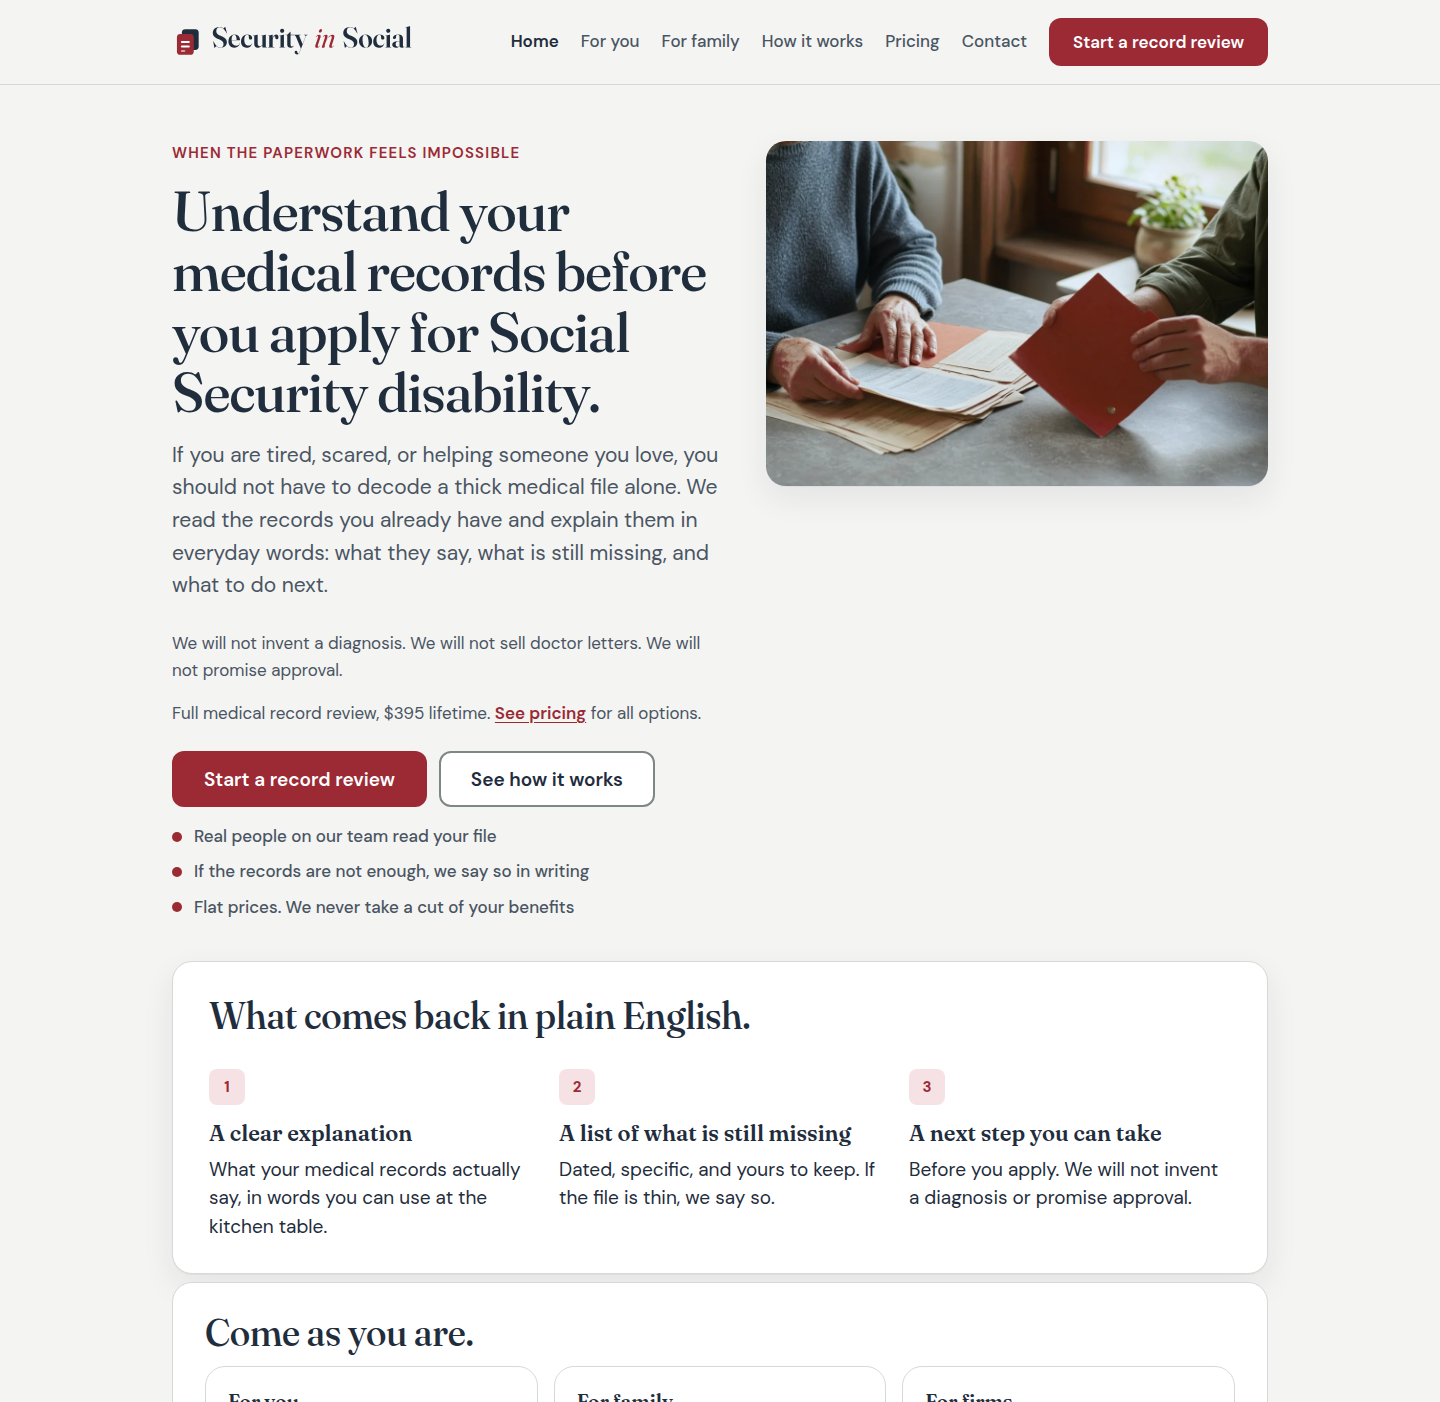
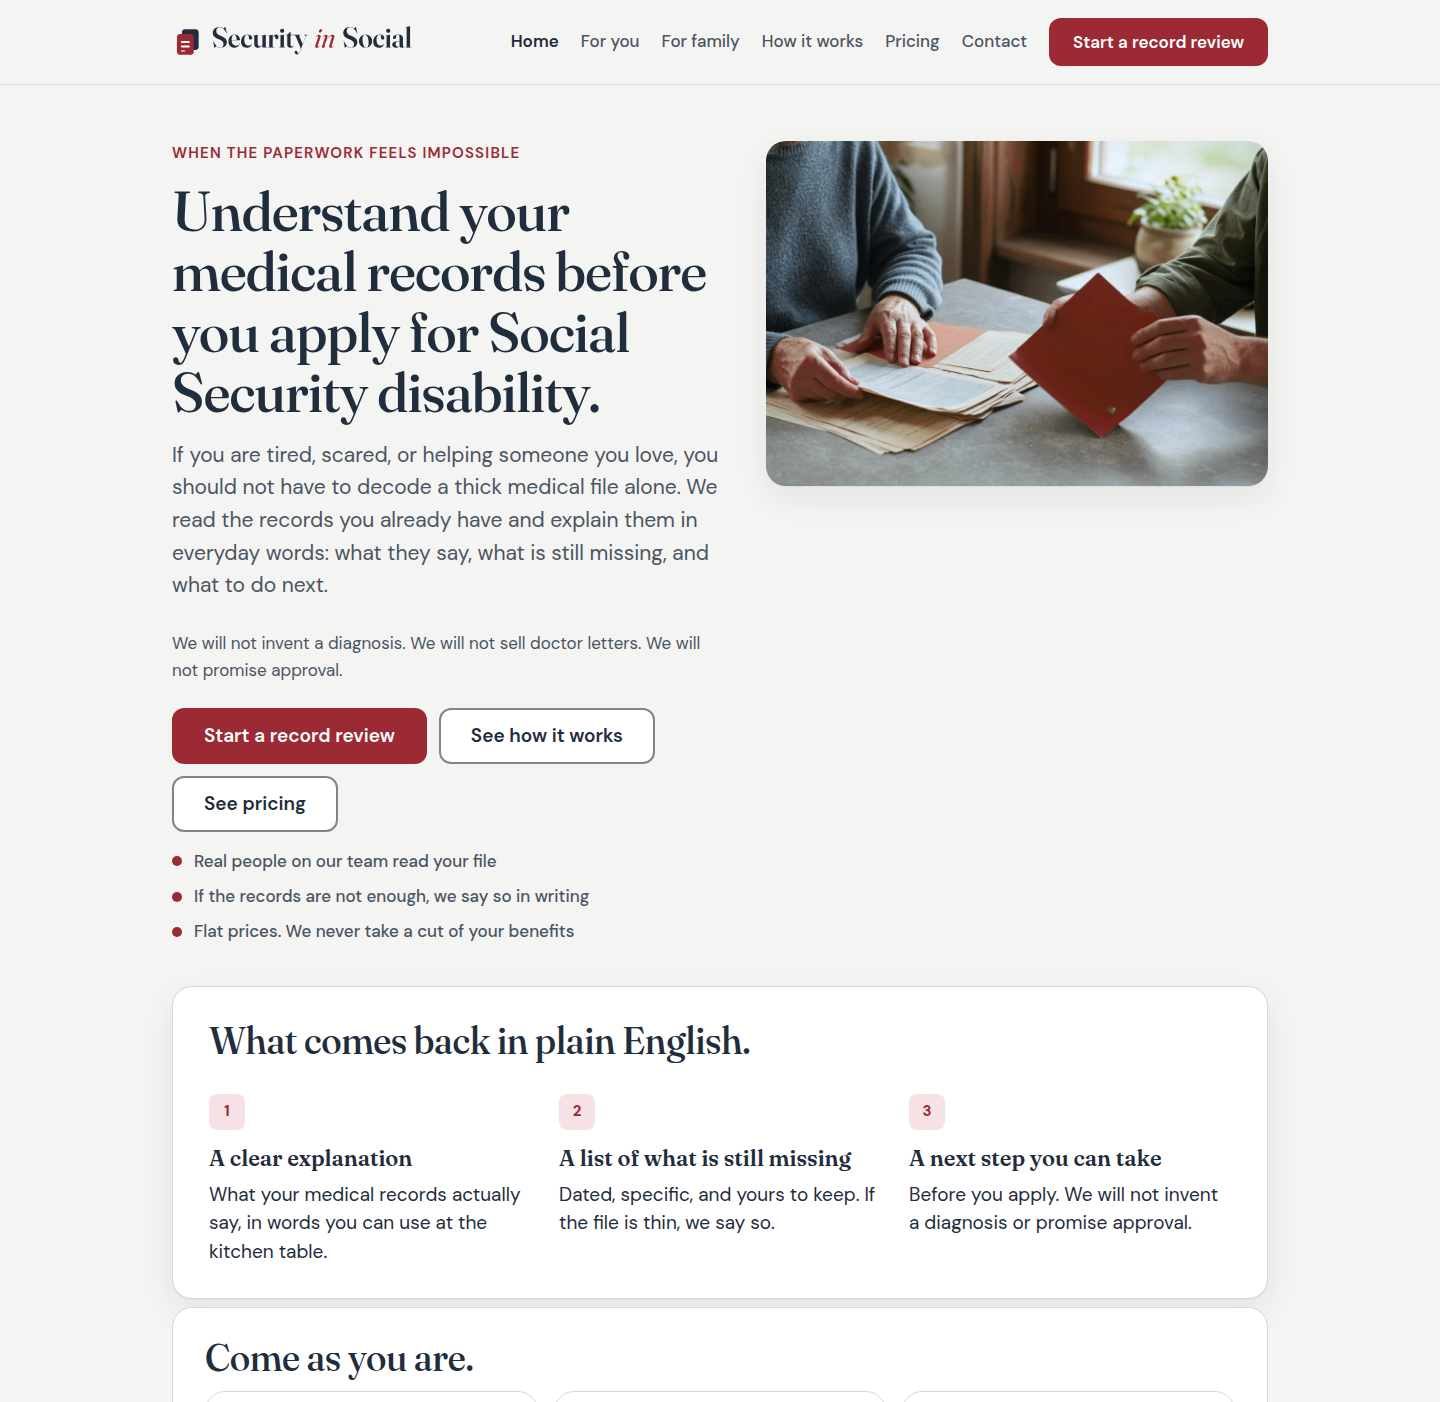
Home: drop dollar amounts. Pricing owns the SKUs.
Remove $395 from Home meta, OG, Twitter, and hero. Keep See pricing as a
ghost CTA and the Flat prices belief line with no figures.

diff --git a/index.html b/index.html
@@ -4,20 +4,20 @@
   <meta charset="utf-8">
   <meta name="viewport" content="width=device-width, initial-scale=1">
   <title>Security in Social. Understand your medical records before you apply.</title>
-  <meta name="description" content="Before you apply for Social Security disability, we read your medical records and explain them in everyday words. $395 lifetime full medical record review.">
+  <meta name="description" content="Before you apply for Social Security disability, we read your medical records and explain them in everyday words.">
   <meta name="theme-color" content="#f4f4f2">
   <link rel="canonical" href="https://securityinsocial.com/">
   <meta property="og:type" content="website">
   <meta property="og:site_name" content="Security in Social">
   <meta property="og:url" content="https://securityinsocial.com/">
   <meta property="og:title" content="Understand your medical records before you apply for Social Security disability">
-  <meta property="og:description" content="We read your medical records and explain them in everyday words. $395 lifetime full medical record review.">
+  <meta property="og:description" content="We read your medical records and explain them in everyday words.">
   <meta property="og:image" content="https://securityinsocial.com/images/sis-og-share-1200x630.jpg">
   <meta property="og:image:width" content="1200">
   <meta property="og:image:height" content="630">
   <meta name="twitter:card" content="summary_large_image">
   <meta name="twitter:title" content="Understand your medical records before you apply for Social Security disability">
-  <meta name="twitter:description" content="We read your medical records and explain them in everyday words. $395 lifetime full medical record review.">
+  <meta name="twitter:description" content="We read your medical records and explain them in everyday words.">
   <meta name="twitter:image" content="https://securityinsocial.com/images/sis-og-share-1200x630.jpg">
   <link rel="icon" href="favicon.svg" type="image/svg+xml">
   <link rel="stylesheet" href="css/tokens-slate-garnet.css">
@@ -53,10 +53,10 @@
           <h1>Understand your medical records before you apply for Social Security disability.</h1>
           <p class="lede">If you are tired, scared, or helping someone you love, you should not have to decode a thick medical file alone. We read the records you already have and explain them in everyday words: what they say, what is still missing, and what to do next.</p>
           <p class="hero-alt">We will not invent a diagnosis. We will not sell doctor letters. We will not promise approval.</p>
-          <p class="hero-alt">Full medical record review, $395 lifetime. <a href="/pricing">See pricing</a> for all options.</p>
           <div class="actions" id="start">
             <a class="btn btn-primary" href="/contact#review">Start a record review</a>
             <a class="btn btn-ghost" href="#how">See how it works</a>
+            <a class="btn btn-ghost" href="/pricing">See pricing</a>
           </div>
           <ul class="quiet-list" aria-label="What to expect">
             <li>Real people on our team read your file</li>

diff --git a/design-proof/README.md b/design-proof/README.md
@@ -7,4 +7,4 @@ Captured from the tip on a local `python3 -m http.server 3000` after the remint.
 | Desktop ~1440 | `home-desktop-1440.png` | 1440 × 1402 |
 | Mobile ~390 | `home-mobile-390.png` | 780 × 4800 (390 CSS px at 2×) |
 
-Sage Soft Clinic is out. Garnet CTA, SVG lockup, self-hosted Fraunces + DM Sans, kitchen-table hero from the brand kit.
+Home is belief-before-price. Pricing owns dollar amounts. These frames must show zero `$395` / `$129`. Sage Soft Clinic is out. Garnet CTA, SVG lockup, self-hosted Fraunces + DM Sans, kitchen-table hero from the brand kit.
